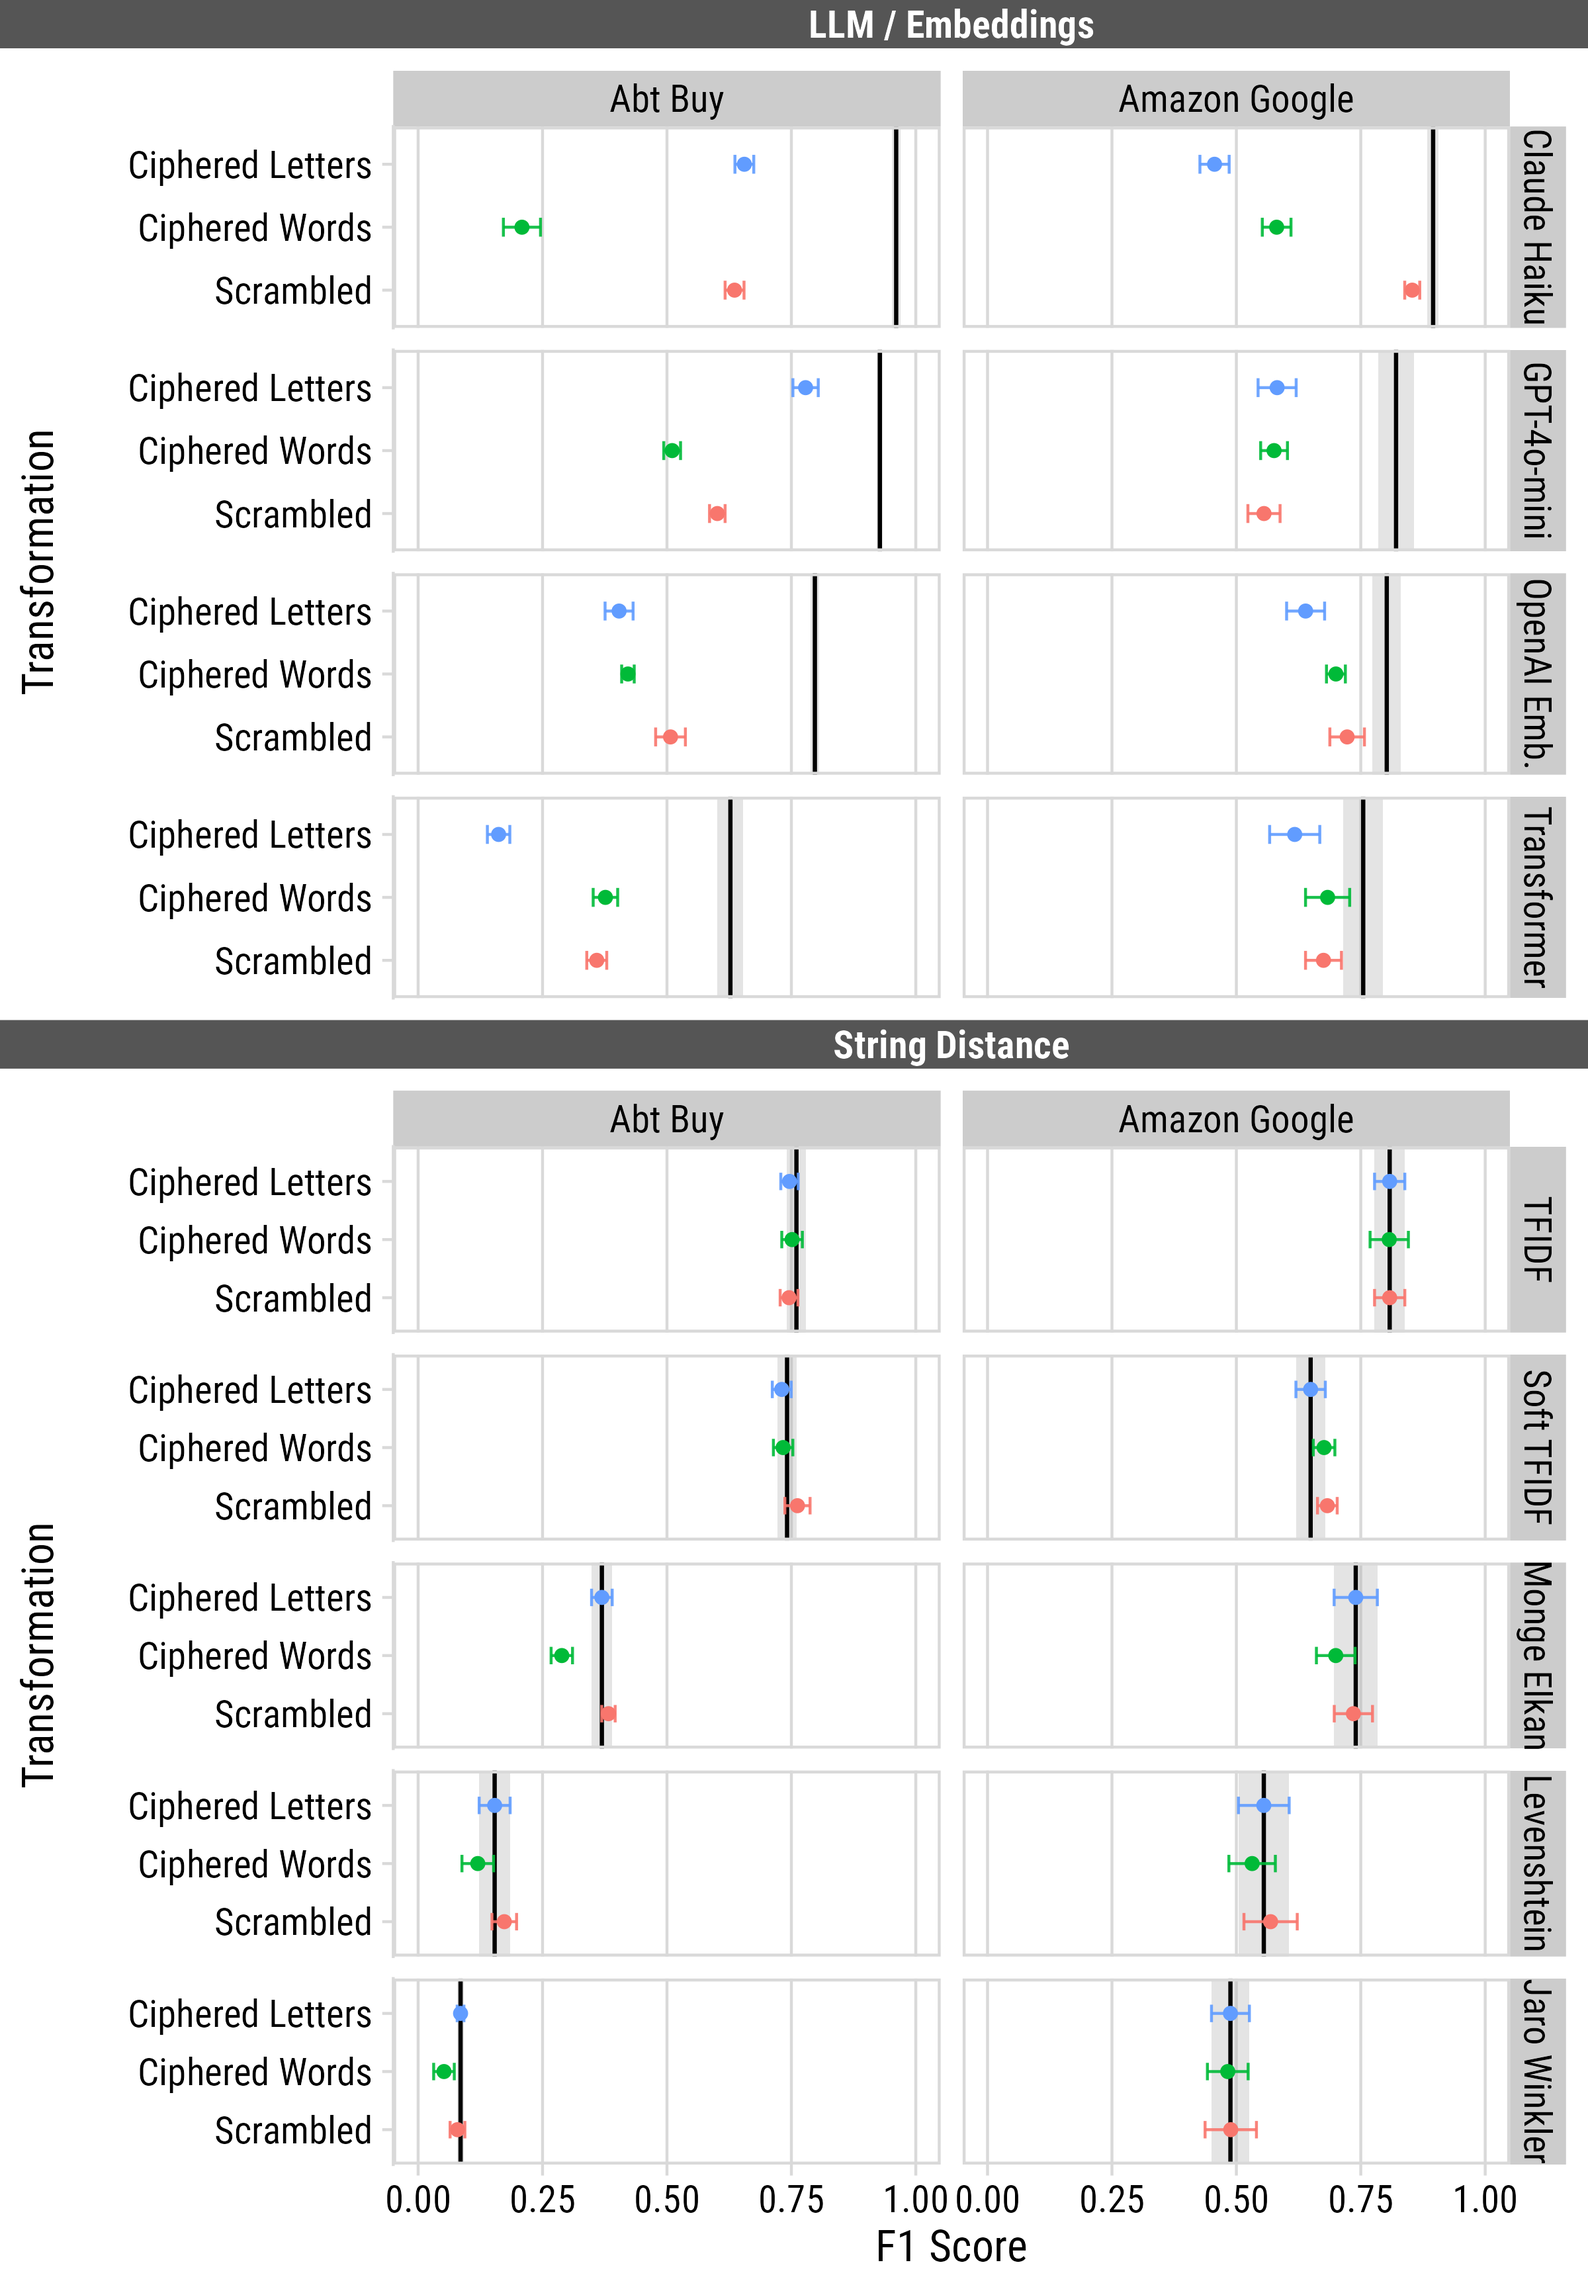
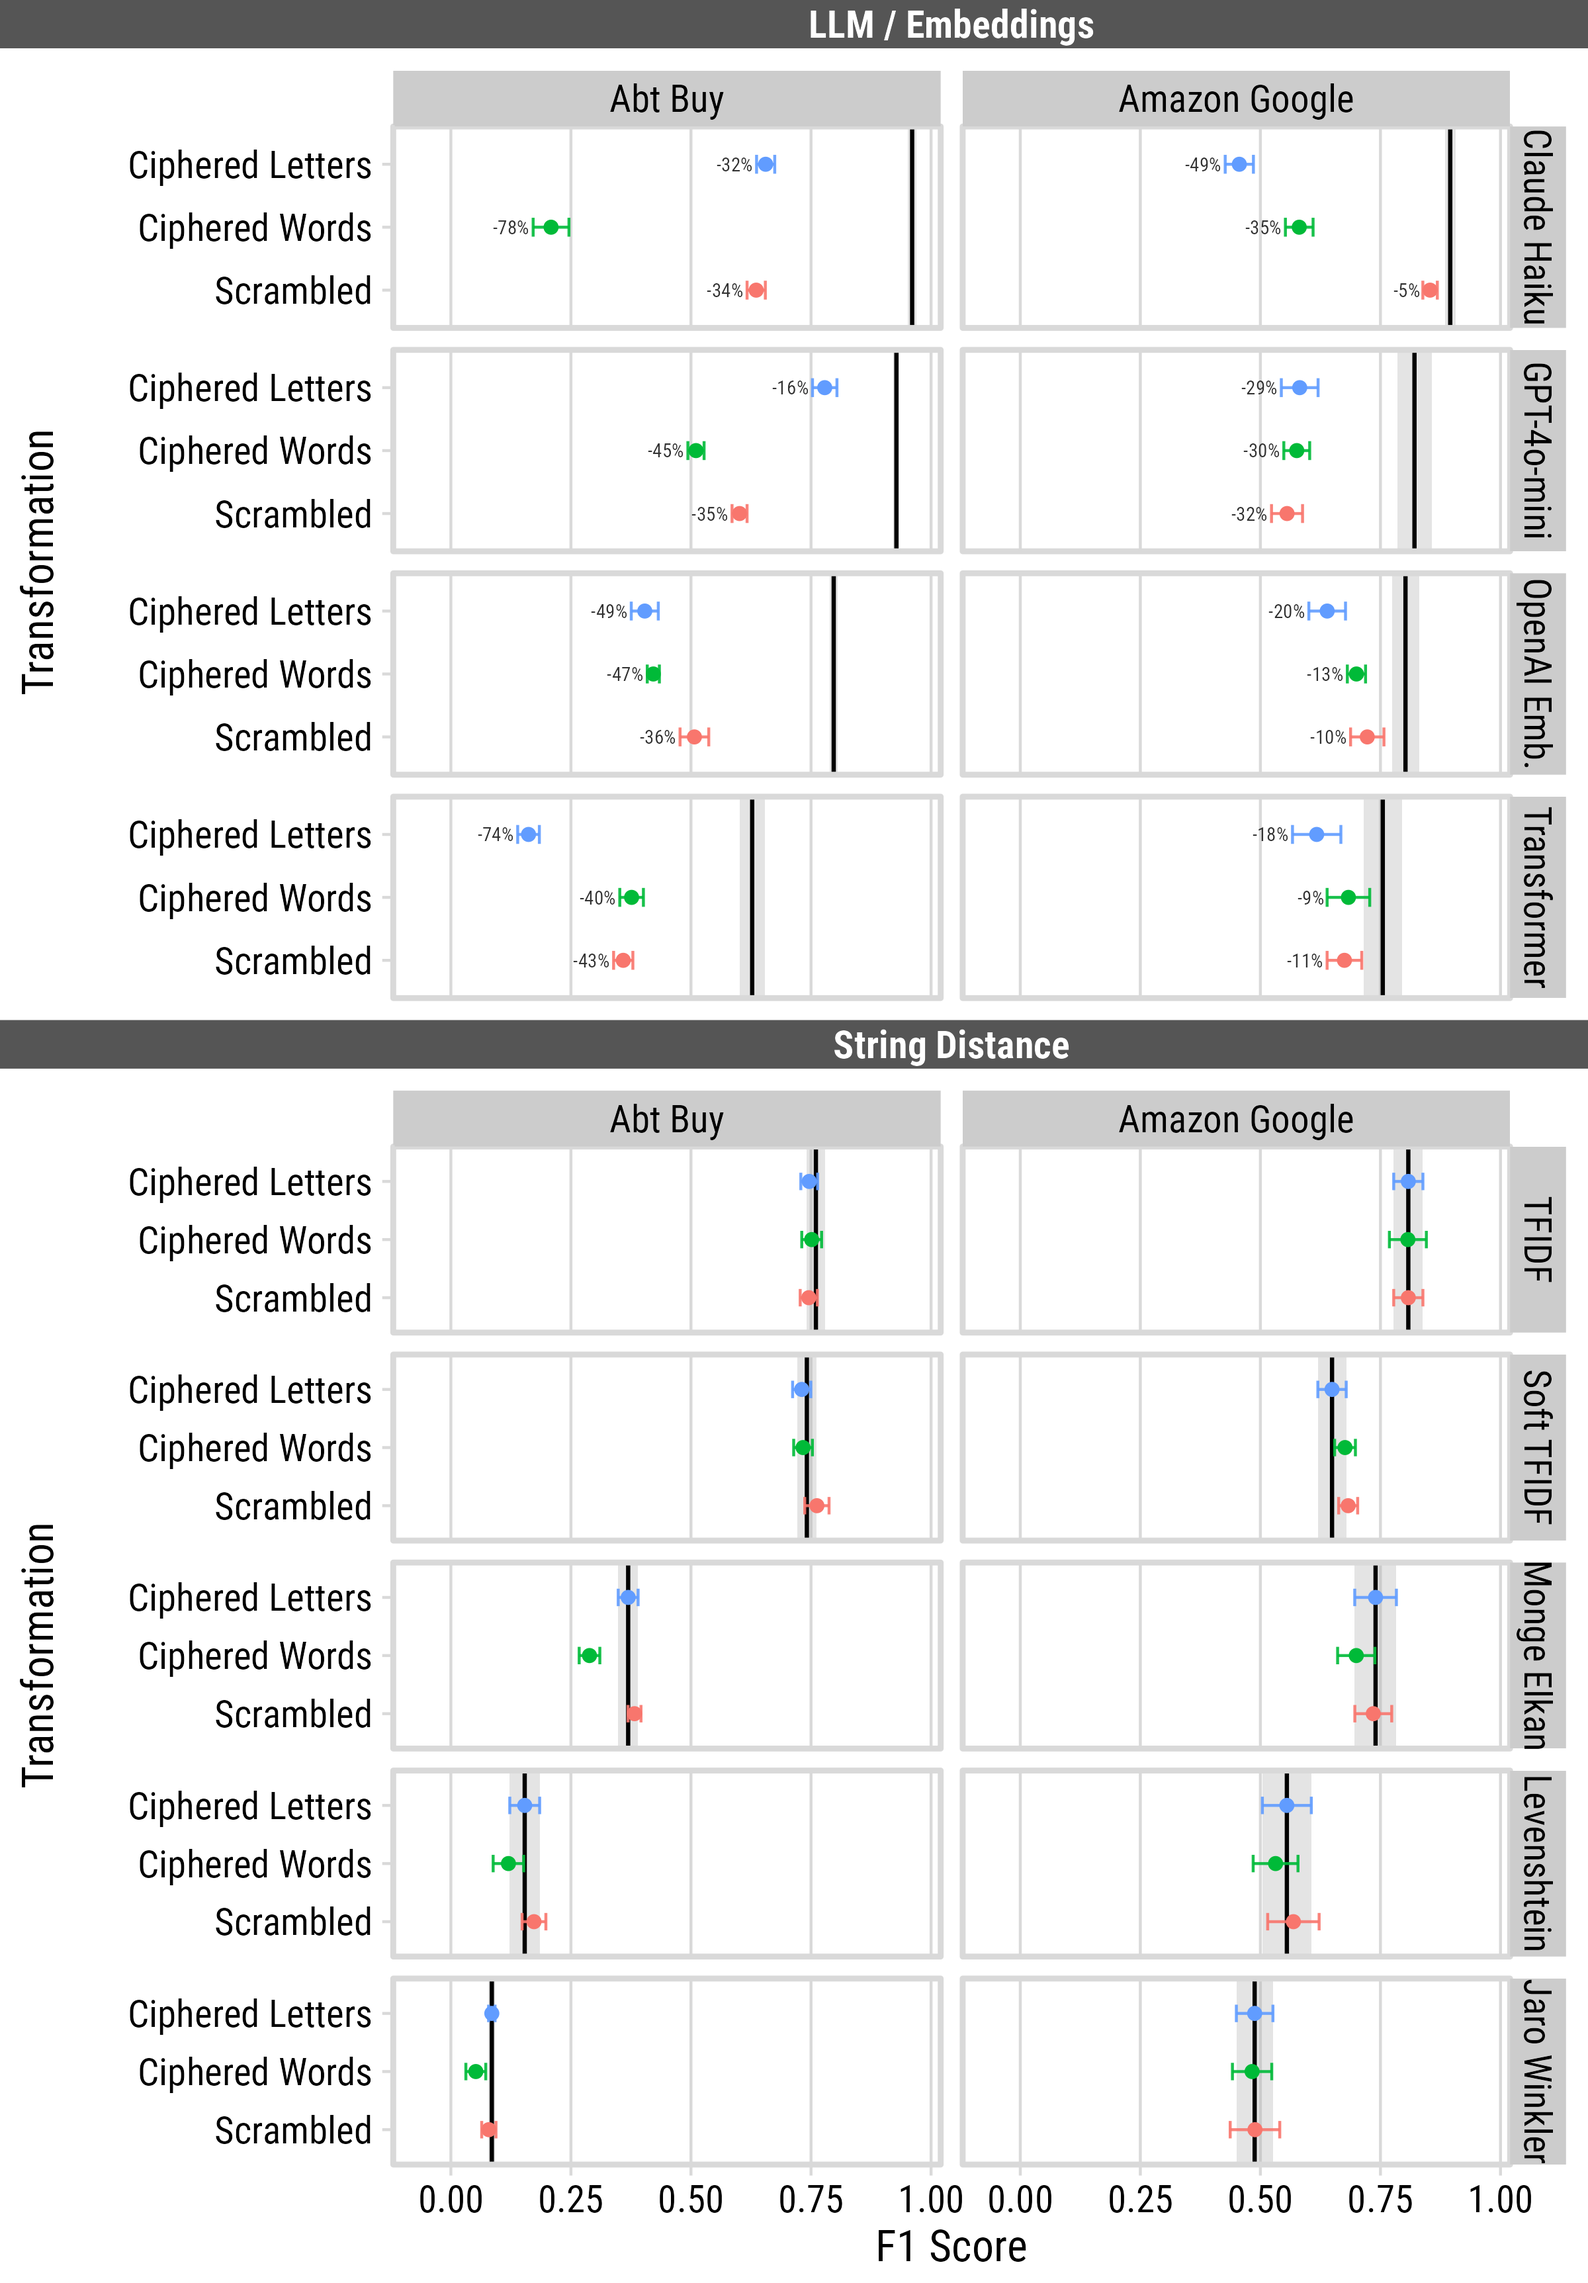
updates to figures

diff --git a/scripts/run_sonnet_robustness.py b/scripts/run_sonnet_robustness.py
@@ -1,0 +1,226 @@
+"""
+Build a consistent 100-record sample for the llm_robustness figure.
+
+All three models (GPT-4o-mini, GPT-4o, Claude Sonnet) are evaluated on the
+SAME 100 left-side entity IDs sampled from the amazon-google mapping file
+(random_state=42).
+
+  - llm / llm_gpt4o: results read from existing parquets (no API calls)
+  - llm_claude original: read from existing original.parquet
+  - llm_claude ablations: new Claude Sonnet API calls (3 × 100 calls)
+
+Output: results/robustness_sample.csv  (cv_results.csv-compatible format)
+
+Usage:
+    .venv/bin/python scripts/run_sonnet_robustness.py
+    .venv/bin/python scripts/run_sonnet_robustness.py --n 100
+"""
+
+import argparse
+import sys
+import time
+from pathlib import Path
+
+import pandas as pd
+from sklearn.feature_extraction.text import TfidfVectorizer
+
+sys.path.append(str(Path(__file__).parent))
+from methods import (
+    _llm_match_single_generic,
+    create_ground_truth_set,
+    get_display_column,
+    get_anthropic_client,
+    prepare_text_column,
+    PROMPT_STANDARD,
+)
+
+
+def _call_sonnet(prompt, model='claude-sonnet-4-6'):
+    """Call Sonnet without retrying on empty-content responses.
+
+    Anthropic's safety filters silently refuse ciphered/encoded text by returning
+    an empty content list. The standard _call_anthropic treats this as a retryable
+    error and waits 62 s per record before giving up. This wrapper returns
+    (None, 0.0) immediately on empty content so the script stays fast.
+    """
+    client = get_anthropic_client()
+    response = client.messages.create(
+        model=model,
+        max_tokens=256,
+        temperature=0,
+        messages=[{'role': 'user', 'content': prompt}],
+    )
+    if not response.content:
+        return None, 0.0
+    answer = response.content[0].text.strip()
+    cost = (
+        (response.usage.input_tokens  / 1_000_000) * 3.0 +
+        (response.usage.output_tokens / 1_000_000) * 15.0
+    )
+    return answer, cost
+
+DATASET      = 'amazon-google'
+MODELS       = ['llm', 'llm_gpt4o', 'llm_claude']
+TRANSFORMATIONS = ['original', 'ciphered_letters', 'ciphered_words', 'scrambled']
+DATA_DIR     = Path('data/amazon-google')
+MAPPING_FILE = DATA_DIR / 'data_original/Amazon_GoogleProducts_perfectMapping.csv'
+RESULTS_DIR  = Path('results/amazon-google')
+OUT_FILE     = Path('results/robustness_sample.csv')
+
+
+def compute_f1(records):
+    total       = len(records)
+    correct     = sum(r['is_correct'] for r in records)
+    predictions = sum(1 for r in records if r.get('pred_id_right', ''))
+    precision   = correct / predictions if predictions > 0 else 0.0
+    recall      = correct / total       if total > 0      else 0.0
+    f1          = 2 * precision * recall / (precision + recall) if (precision + recall) > 0 else 0.0
+    return f1, precision, recall
+
+
+def load_parquet_sample(method, transformation, sample_ids):
+    """Read existing parquet, filter to sample_ids, return records list."""
+    pq_path = RESULTS_DIR / method / f'{transformation}.parquet'
+    df = pd.read_parquet(pq_path)
+    df = df[df['id_left'].astype(str).isin(sample_ids)].copy()
+    if len(df) < len(sample_ids):
+        print(f'  WARNING: only {len(df)}/{len(sample_ids)} sample IDs found in {pq_path}')
+    return df[['id_left', 'true_id_right', 'pred_id_right', 'is_correct']].to_dict('records')
+
+
+def run_sonnet_ablation(transformation, sample_ids, df_mapping, true_matches):
+    """Run Claude Sonnet on sample_ids for a given transformation."""
+    left_file  = DATA_DIR / f'data_test/amazon_{transformation}.csv'
+    right_file = DATA_DIR / f'data_test/google_{transformation}.csv'
+
+    map_r         = df_mapping.columns[1]
+    matched_right = set(df_mapping[map_r].astype(str))
+
+    for enc in ['utf-8', 'latin-1', 'iso-8859-1']:
+        try:
+            df_left  = pd.read_csv(left_file,  encoding=enc)
+            df_right = pd.read_csv(right_file, encoding=enc)
+            break
+        except Exception:
+            continue
+
+    left_id_col  = df_left.columns[0]
+    right_id_col = df_right.columns[0]
+
+    df_right    = df_right[df_right[right_id_col].astype(str).isin(matched_right)].copy()
+    df_left_sub = df_left[df_left[left_id_col].astype(str).isin(sample_ids)].copy()
+
+    df_left_prep  = prepare_text_column(df_left_sub.copy())
+    df_right_prep = prepare_text_column(df_right.copy())
+
+    id_col_right   = df_right_prep.columns[0]
+    name_col_right = get_display_column(df_right_prep)
+
+    vectorizer  = TfidfVectorizer()
+    vectorizer.fit(pd.concat([df_left_prep['text'], df_right_prep['text']]))
+    right_tfidf = vectorizer.transform(df_right_prep['text'])
+    # Keep prompts small (~3k tokens) to stay under Sonnet's tokens-per-minute limit.
+    top_k          = 10
+    max_text_length = 400
+
+    records = []
+    for _, row_a in df_left_prep.iterrows():
+        id_a   = str(row_a[df_left_prep.columns[0]])
+        name_a = row_a[get_display_column(df_left_prep)]
+
+        matched_id, matched_name, confidence, _ = _llm_match_single_generic(
+            row_a, df_right_prep, id_col_right, name_col_right,
+            top_k, max_text_length, vectorizer, right_tfidf,
+            _call_sonnet, PROMPT_STANDARD
+        )
+        time.sleep(2)
+
+        is_correct = matched_id is not None and (id_a, matched_id) in true_matches
+        status     = '✓' if is_correct else ('✗' if matched_id else '—')
+        print(f'    [{status}] conf={confidence:.2f}  {name_a[:40]!r} -> {matched_name!r}')
+
+        records.append({
+            'id_left':       id_a,
+            'true_id_right': next((r for l, r in true_matches if l == id_a), ''),
+            'pred_id_right': matched_id or '',
+            'is_correct':    int(is_correct),
+        })
+
+    return records
+
+
+def run(n_cases: int):
+    df_mapping   = pd.read_csv(MAPPING_FILE)
+    map_l        = df_mapping.columns[0]
+    all_left_ids = df_mapping[map_l].astype(str).unique().tolist()
+
+    # Sample the same N entity IDs used across all models
+    sample_series = pd.Series(all_left_ids).sample(
+        n=min(n_cases, len(all_left_ids)), random_state=42
+    )
+    sample_ids = set(sample_series.values)
+    print(f'Sampled {len(sample_ids)} entity IDs (random_state=42)\n')
+
+    true_matches = create_ground_truth_set(df_mapping)
+    rows_out     = []
+
+    # Sonnet's safety filters block ciphered_letters (letter-substitution cipher
+    # looks like encoded/obfuscated content). Skip it rather than paying for
+    # 100 API calls that return nothing.
+    # Sonnet's safety filters block all adversarial text transformations.
+    SONNET_SKIP = {'ciphered_letters', 'ciphered_words', 'scrambled'}
+
+    for method in MODELS:
+        for transformation in TRANSFORMATIONS:
+            print(f'── {method} / {transformation}')
+
+            if method == 'llm_claude' and transformation in SONNET_SKIP:
+                print(f'   SKIPPED — Sonnet safety filter blocks this transformation\n')
+                rows_out.append({
+                    'dataset':        DATASET,
+                    'method':         method,
+                    'transformation': transformation,
+                    'f1_mean':        float('nan'),
+                    'f1_std':         float('nan'),
+                    'precision':      float('nan'),
+                    'recall':         float('nan'),
+                })
+                continue
+
+            if method == 'llm_claude' and transformation != 'original':
+                # Run new Sonnet API calls
+                records = run_sonnet_ablation(
+                    transformation, sample_ids, df_mapping, true_matches
+                )
+            else:
+                # Read from existing parquet
+                records = load_parquet_sample(method, transformation, sample_ids)
+
+            f1, prec, rec = compute_f1(records)
+            correct = sum(r['is_correct'] for r in records)
+            print(f'   {correct}/{len(records)} correct  '
+                  f'F1={f1:.3f}  P={prec:.3f}  R={rec:.3f}\n')
+
+            rows_out.append({
+                'dataset':        DATASET,
+                'method':         method,
+                'transformation': transformation,
+                'f1_mean':        f1,
+                'f1_std':         0.0,
+                'precision':      prec,
+                'recall':         rec,
+            })
+
+    df_out = pd.DataFrame(rows_out)
+    OUT_FILE.parent.mkdir(parents=True, exist_ok=True)
+    df_out.to_csv(OUT_FILE, index=False)
+    print(f'Saved: {OUT_FILE}')
+    print(df_out.to_string(index=False))
+
+
+if __name__ == '__main__':
+    parser = argparse.ArgumentParser()
+    parser.add_argument('--n', type=int, default=100,
+                        help='Number of records to sample (default 100)')
+    args = parser.parse_args()
+    run(args.n)
